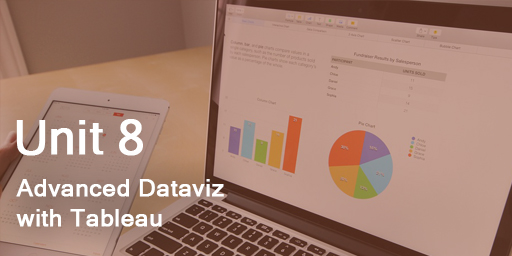
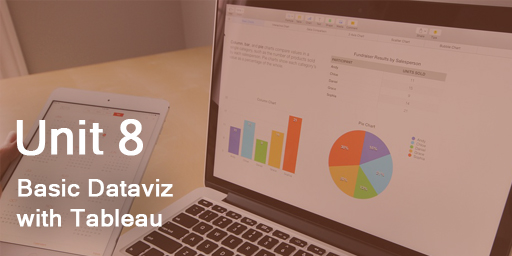
Change Team ordering

Changed region(s): [[0.0312, 0.6875, 0.4375, 0.7812]]

diff --git a/workshop1/index.html b/workshop1/index.html
@@ -216,28 +216,6 @@
               <div class="columns">
                 <div class="column">
                   <figure class="image is-128x128">
-                    <img src="/images/craig.jpg"
-                    class="is-rounded" />
-                  </figure>
-                  <br />
-                  <p class="title is-6 has-text-primary">
-                    Craig Hammer
-                  </p>
-                  <p class="subtitle is-6 has-text-black">Advisor</p>
-                </div>
-                <div class="column">
-                  <figure class="image is-128x128">
-                    <img src="/images/ravi.jpg"
-                    class="is-rounded" />
-                  </figure>
-                  <br />
-                  <p class="title is-6 has-text-primary">
-                    Ravi Kumar
-                  </p>
-                  <p class="subtitle is-6 has-text-black">Team Lead</p>
-                </div>
-                <div class="column">
-                  <figure class="image is-128x128">
                     <img src="/images/ashutosh.jpg"
                     class="is-rounded" />
                   </figure>
@@ -259,8 +237,6 @@
                   </p>
                   <p class="subtitle is-6 has-text-black">Instructor</p>
                 </div>
-              </div>
-              <div class="columns">
                 <div class="column">
                   <figure class="image is-128x128">
                     <img src="/images/burhan.jpg"
@@ -272,6 +248,19 @@
                   </p>
                   <p class="subtitle is-6 has-text-black">Instructor</p>
                 </div>
+                <div class="column">
+                  <figure class="image is-128x128">
+                    <img src="/images/craig.jpg"
+                    class="is-rounded" />
+                  </figure>
+                  <br />
+                  <p class="title is-6 has-text-primary">
+                    Craig Hammer
+                  </p>
+                  <p class="subtitle is-6 has-text-black">Advisor</p>
+                </div>
+              </div>
+              <div class="columns">
                 <div class="column">
                   <figure class="image is-128x128">
                     <img src="/images/liza.jpg"
@@ -295,7 +284,17 @@
                   </p>
                   <p class="subtitle is-6 has-text-black">Instructor</p>
                 </div>
-
+                <div class="column">
+                  <figure class="image is-128x128">
+                    <img src="/images/ravi.jpg"
+                    class="is-rounded" />
+                  </figure>
+                  <br />
+                  <p class="title is-6 has-text-primary">
+                    Ravi Kumar
+                  </p>
+                  <p class="subtitle is-6 has-text-black">Team Lead</p>
+                </div>
                 <div class="column">
                   <figure class="image is-128x128">
                     <img src="/images/sujata.jpg"

diff --git a/workshop2/index.html b/workshop2/index.html
@@ -217,28 +217,6 @@
               <div class="columns">
                 <div class="column">
                   <figure class="image is-128x128">
-                    <img src="/images/craig.jpg"
-                    class="is-rounded" />
-                  </figure>
-                  <br />
-                  <p class="title is-6 has-text-primary">
-                    Craig Hammer
-                  </p>
-                  <p class="subtitle is-6 has-text-black">Advisor</p>
-                </div>
-                <div class="column">
-                  <figure class="image is-128x128">
-                    <img src="/images/ravi.jpg"
-                    class="is-rounded" />
-                  </figure>
-                  <br />
-                  <p class="title is-6 has-text-primary">
-                    Ravi Kumar
-                  </p>
-                  <p class="subtitle is-6 has-text-black">Team Lead</p>
-                </div>
-                <div class="column">
-                  <figure class="image is-128x128">
                     <img src="/images/ashutosh.jpg"
                     class="is-rounded" />
                   </figure>
@@ -260,8 +238,19 @@
                   </p>
                   <p class="subtitle is-6 has-text-black">Instructor</p>
                 </div>
-              </div>
-              <div class="columns">
+
+                <div class="column">
+                  <figure class="image is-128x128">
+                    <img src="/images/craig.jpg"
+                    class="is-rounded" />
+                  </figure>
+                  <br />
+                  <p class="title is-6 has-text-primary">
+                    Craig Hammer
+                  </p>
+                  <p class="subtitle is-6 has-text-black">Advisor</p>
+                </div>
+
                 <div class="column">
                   <figure class="image is-128x128">
                     <img src="/images/liza.jpg"
@@ -273,6 +262,9 @@
                   </p>
                   <p class="subtitle is-6 has-text-black">Instructor</p>
                 </div>
+              </div>
+
+              <div class="columns">
                 <div class="column">
                   <figure class="image is-128x128">
                     <img src="/images/nk.jpg" class="is-rounded"
@@ -283,6 +275,18 @@
                     Nkechi Coker
                   </p>
                   <p class="subtitle is-6 has-text-black">Instructor</p>
+                </div>
+
+                <div class="column">
+                  <figure class="image is-128x128">
+                    <img src="/images/ravi.jpg"
+                    class="is-rounded" />
+                  </figure>
+                  <br />
+                  <p class="title is-6 has-text-primary">
+                    Ravi Kumar
+                  </p>
+                  <p class="subtitle is-6 has-text-black">Team Lead</p>
                 </div>
 
                 <div class="column">

diff --git a/unit8/index.html b/unit8/index.html
@@ -145,7 +145,7 @@
         <div class="hero-body">
             <div class="container">
                 <h1 class="title">
-                    Unit 8 : Advanced Dataviz with Tableau
+                    Unit 8 : Basic Dataviz with Tableau
                 </h1>
                 <h2 class="subtitle">
 This unit covers topics on basic data visualization with Tableau including understanding data, organizing it, and
@@ -168,10 +168,9 @@ presenting it in formats and visualizations that makes sense to people who use i
                             
                         </p>
                         <iframe style="height: 560px;"
-                            src="https://docs.google.com/presentation/d/e/2PACX-1vTNwtLUxgojoY0IcqsDcKfL2ZJrjk9-U8PfCk_Ufyupj6RHyf7hYyk1NoAJ5UX6UDTpSjXRAkBEUrEp/embed?start=false&loop=false&delayms=3000"
+                            src="https://docs.google.com/presentation/d/e/2PACX-1vQE_n3xZ5bDd5TbUry5iznJXbPm9GxrUZNOyVDSz569jEtUupEsYki_djagcf--08enABCecwio_pH1/embed?start=false&loop=false&delayms=3000"
                             frameborder="0" width="1600" height="629" allowfullscreen="true" mozallowfullscreen="true"
-                            webkitallowfullscreen="true">
-                        </iframe>
+                            webkitallowfullscreen="true"></iframe>
                     </div>
                     <div class="column is-3-desktop">
                         <br />

diff --git a/index.html b/index.html
@@ -453,7 +453,7 @@ introduction to machine learning and creating simple machine learning models for
             </div>
             <div class="card-content">
               <div class="content">
-                <strong>Advanced Dataviz with Tableau</strong>
+                <strong>Basic Dataviz with Tableau</strong>
                 <p>
 This unit covers topics on basic data visualization with Tableau including understanding data, organizing it, and
 presenting it in formats and visualizations that makes sense to people who use it to make a real impact with data.
